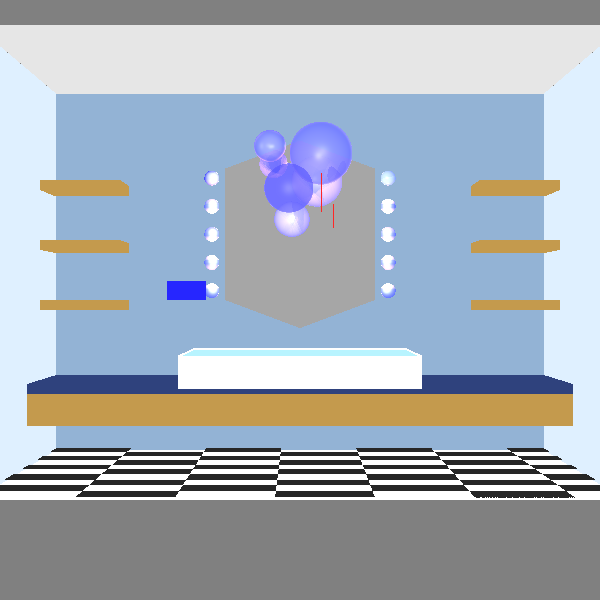
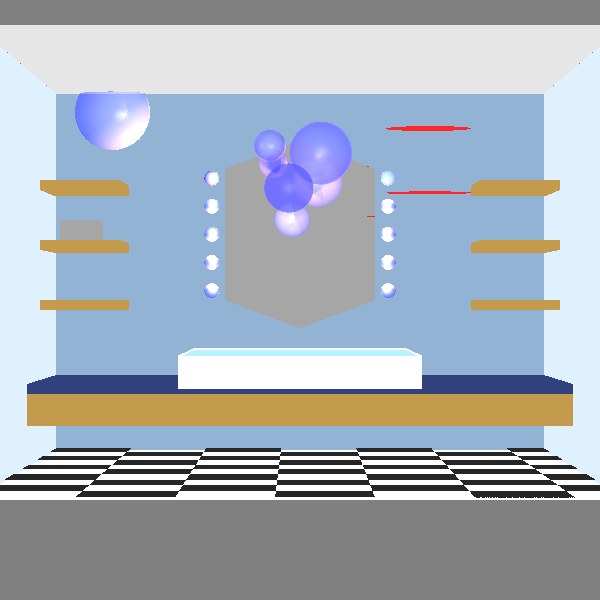
here we go again

diff --git a/unitTests/renderer/Project1.java b/unitTests/renderer/Project1.java
@@ -1,6 +1,7 @@
 package renderer;
 import geometries.*;
 import lighting.AmbientLight;
+import lighting.DirectionalLight;
 import lighting.PointLight;
 import lighting.SpotLight;
 import org.junit.jupiter.api.Test;
@@ -297,8 +298,6 @@ public class Project1 {
         //מדף שמאל
                 new Cuboid(
                             new Point(100, -300, -200), 80, 80, 5,new Color(158,116, 39)),
-                    // tryyyy
-                    new Cuboid(new Point(60,-380,-190),20,20,10,new Color(blue)),
                     new Cuboid(
                             new Point(100, -300, -170), 80, 80, 5,new Color(158,116, 39)),
                     new Cuboid(
@@ -317,11 +316,11 @@ public class Project1 {
                 new Point(-30, -399, -130),
                 new Point(-30, -399, -200),
                 new Point(50, -399, -200)
-        ).setEmission(new Color(black)).setMaterial(new Material().setKR(0.9)),
+        ).setEmission(new Color(BLACK)).setMaterial(new Material().setKR(0.9)),
         new Triangle(new Point(50, -399, -130),new Point(-30, -399, -130),new Point(10, -399, -115))
-                .setEmission(new Color(black)).setMaterial(new Material().setKR(0.9)),
+                .setEmission(new Color(BLACK)).setMaterial(new Material().setKR(0.9)),
         new Triangle(new Point(50, -399, -200),new Point(-30, -399, -200),new Point(10, -399, -215))
-                        .setEmission(new Color(black)).setMaterial(new Material().setKR(0.9)),
+                        .setEmission(new Color(BLACK)).setMaterial(new Material().setNShininess(30).setKR(0.9)),
 
 
 //        כיור
@@ -384,20 +383,25 @@ public class Project1 {
                         .setMaterial(new Material().setKD(0.2).setKS(0.2).setNShininess(1).setKT(0.6)),
                 new Sphere(4, new Point(57, -400, -195)).setEmission(new Color(blue))
                         .setMaterial(new Material().setKD(0.2).setKS(0.2).setNShininess(1).setKT(0.6)),
-        new Cylinder(10,new Ray(new Point(0, -200, -150),new Vector(-1,0,0)),10)
+
+        new Cylinder(20,new Ray(new Point(-50, -200, -150),new Vector(0,0,1)),30)
                 .setEmission(new Color(RED)),
+
+                new Sphere(20, new Point(110, -400, -100)).setEmission(new Color(BLUE))
+                        .setMaterial(new Material().setKD(0.2).setKS(0.2).setNShininess(40).setKT(0.6)),
         //מנורה 1
                 new Sphere(11, new Point(15, -140, -150)).setEmission(new Color(BLUE))
-                        .setMaterial(new Material().setKD(0.2).setKS(0.2).setNShininess(30).setKT(0.6)),
+                        .setMaterial(new Material().setKD(0.2).setKS(0.2).setNShininess(40).setKT(0.6)),
         // מנורה קטנה 2
                 new Sphere(8, new Point(25, -300, -123)).setEmission(new Color(BLUE))
-                        .setMaterial(new Material().setKD(0.2).setKS(0.2).setNShininess(30).setKT(0.6)),
-                // try
-//                new Sphere(8, new Point(-15, -300, -123)).setEmission(new Color(BLUE))
-//                        .setMaterial(new Material().setKD(0.2).setKS(0.2).setNShininess(30).setKT(0.6)),
+                        .setMaterial(new Material().setKD(0.2).setKS(0.2).setNShininess(40).setKT(0.6)),
+
+                new Cuboid(new Point(110, -300, -160),20,20,10,new Color(GRAY)),
         // מנורה 3
                 new Sphere(15d, new Point(0, -230, -130)).setEmission(new Color(BLUE))
-                        .setMaterial(new Material().setKD(0.2).setKS(0.2).setNShininess(30).setKT(0.6)));
+                        .setMaterial(new Material().setKD(0.2).setKS(0.2).setNShininess(40).setKT(0.6)));
+
+
 
 
 
@@ -439,6 +443,8 @@ public class Project1 {
                 .setkL(0.001).setkQ(0.0002));
         scene.lights.add(new PointLight(new Color(1000, 600, 0), new Point( 57, -400, -195))
                 .setkL(0.001).setkQ(0.0002));
+
+
 
 
         ImageWriter imageWriter = new ImageWriter("Project1", 600, 600);
